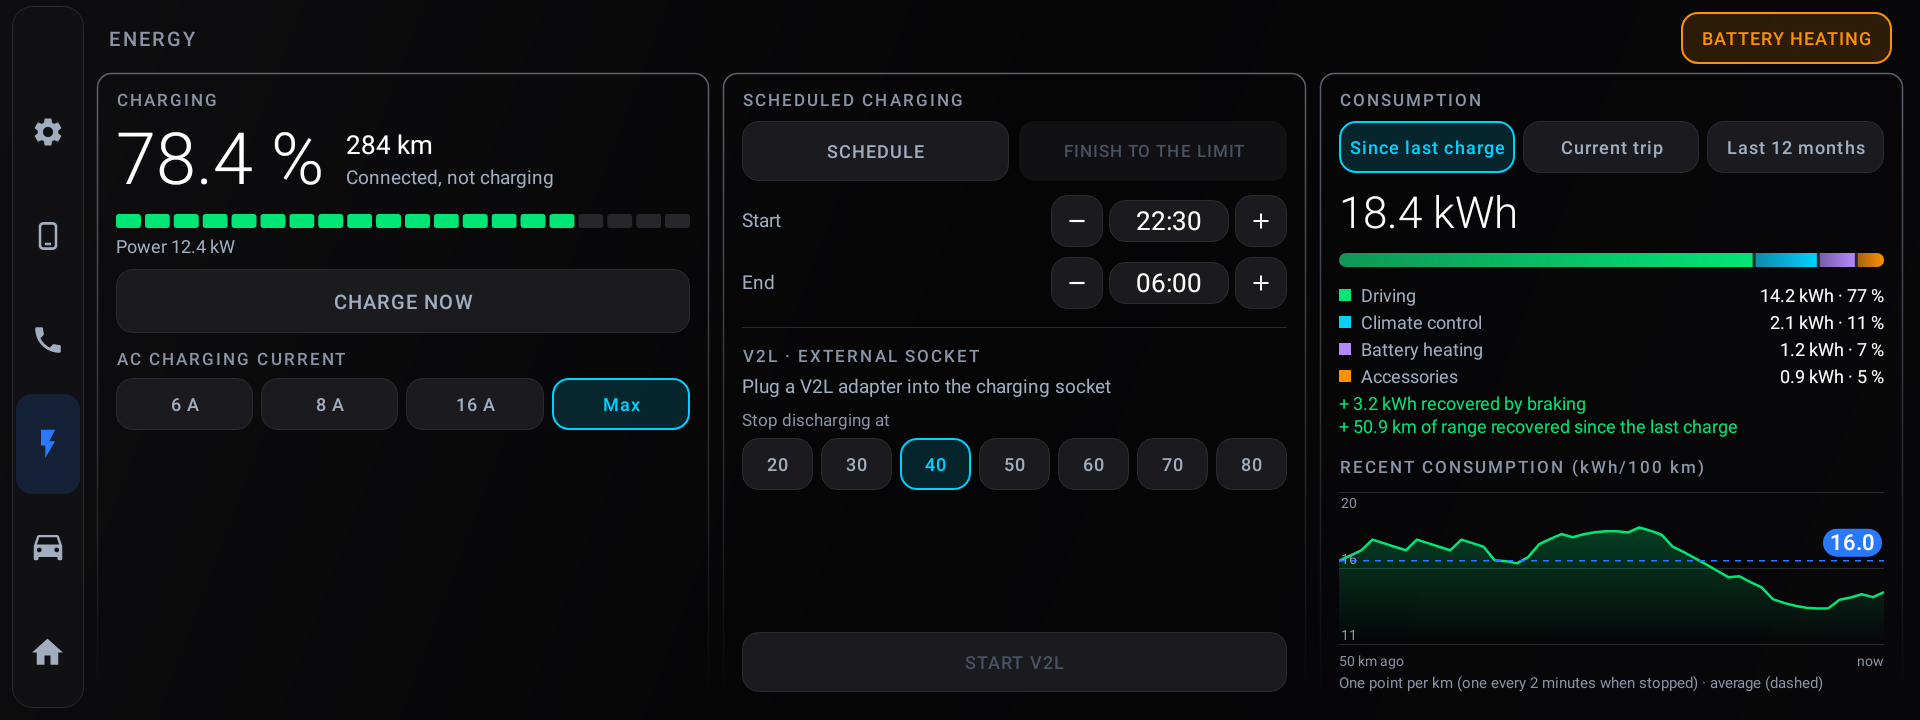
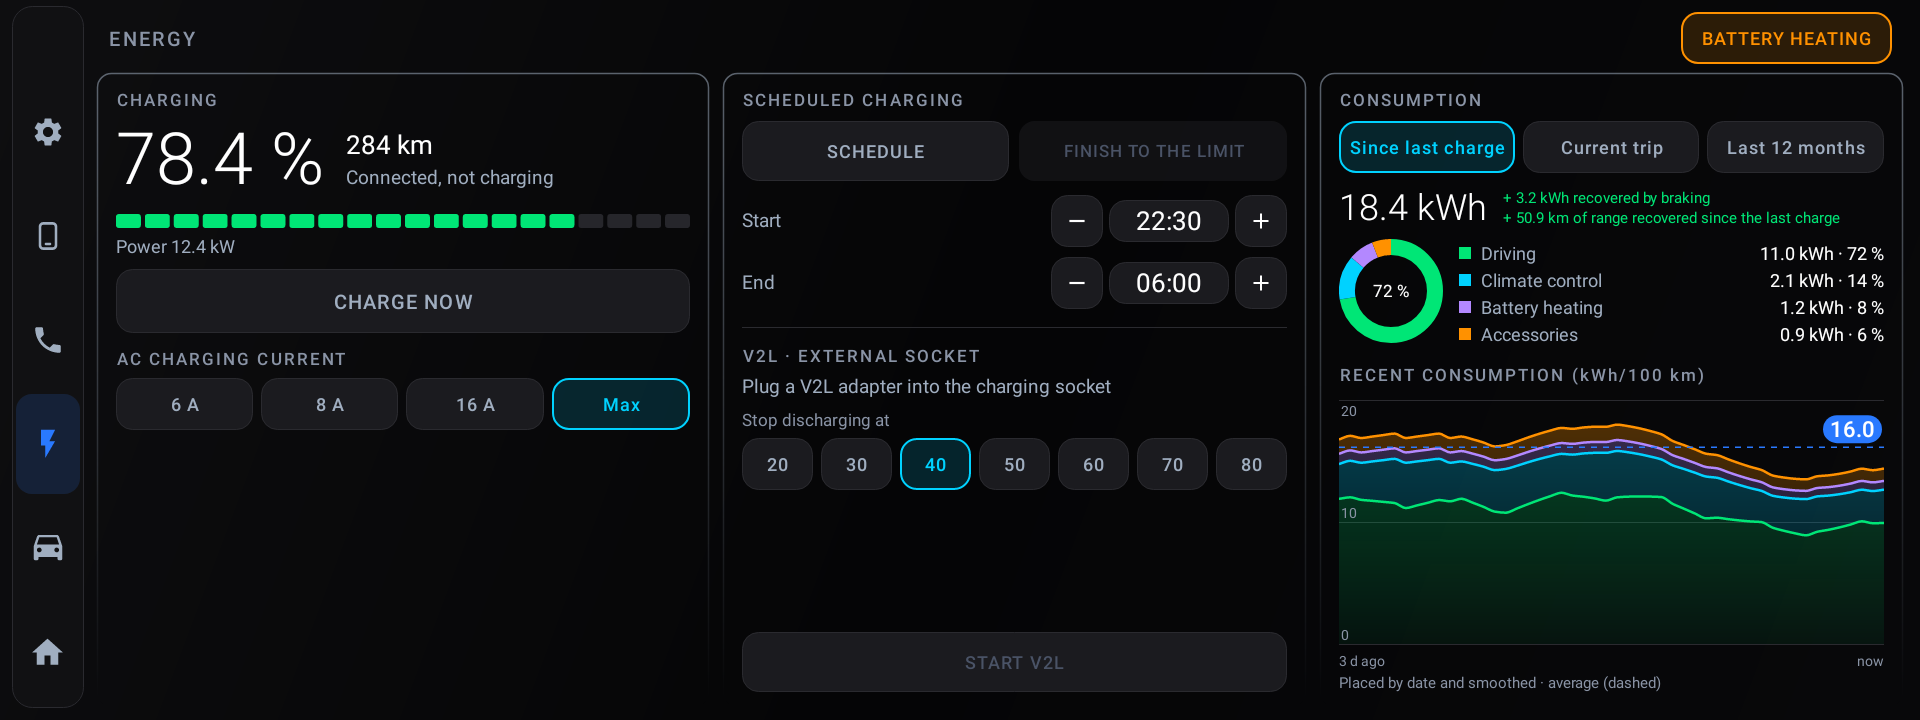
Energy page: ring with each item's share; README and screenshots updated

Changed region(s): [[0.6875, 0.2444, 1.0, 0.8556], [0.6875, 0.9167, 0.9375, 0.9778]]

diff --git a/app/src/main/java/app/mg4dash/pages/EnergyActivity.kt b/app/src/main/java/app/mg4dash/pages/EnergyActivity.kt
@@ -62,6 +62,7 @@ class EnergyActivity : PageActivity() {
     private lateinit var setPeriod: (Int?) -> Unit
     private lateinit var consTotal: TextView
     private lateinit var legend: LinearLayout
+    private lateinit var ring: app.mg4dash.ui.RingChart
     private lateinit var regen: TextView
     private lateinit var regenKm: TextView
     private lateinit var chart: LineChart
@@ -196,8 +197,14 @@ class EnergyActivity : PageActivity() {
         val recovered = kit.column()
         totalRow.addView(recovered, kit.lp(0, -2, 1f, l = 16))
         c3.addView(totalRow, kit.lp(-1, -2, t = 14))
+        // Anneau de répartition à gauche, le détail à droite
+        ring = app.mg4dash.ui.RingChart(this)
         legend = kit.column()
-        c3.addView(legend, kit.lp(-1, -2, t = 8))
+        c3.addView(kit.row().apply {
+            gravity = android.view.Gravity.CENTER_VERTICAL
+            addView(ring, kit.lp(kit.dp(104), kit.dp(104)))
+            addView(legend, kit.lp(0, -2, 1f, l = 16))
+        }, kit.lp(-1, -2, t = 8))
         regen = kit.text("", 15f, R.color.accent_energy).apply { setTextColor(app.mg4dash.ui.Themes.energy(context)) }
         recovered.addView(regen, kit.lp(-1, -2))
         regenKm = kit.text("", 15f, R.color.accent_energy).apply { setTextColor(app.mg4dash.ui.Themes.energy(context)) }
@@ -350,6 +357,8 @@ class EnergyActivity : PageActivity() {
         consTotal.text = if (ok) String.format(Locale.getDefault(), "%.1f kWh", total) else "—"
         val green = kit.color(R.color.accent_energy); val cyan = kit.color(R.color.accent_cold); val orange = kit.color(R.color.accent_heat)
         val violet = kit.color(R.color.accent_battery)
+        ring.show(if (ok) listOfNotNull(drive to green, clim.coerceAtLeast(0f) to cyan, (heat to violet).takeIf { showHeat }, acc.coerceAtLeast(0f) to orange) else emptyList(),
+            if (ok) "${Math.round(drive / shared * 100)} %" else "")
         legend.removeAllViews()
         listOfNotNull(Triple(getString(R.string.en_drive), drive, green), Triple(getString(R.string.en_climate), clim, cyan),
             Triple(getString(R.string.en_battery_heat), heat, violet).takeIf { showHeat },

diff --git a/app/src/main/java/app/mg4dash/ui/Charts.kt b/app/src/main/java/app/mg4dash/ui/Charts.kt
@@ -55,6 +55,42 @@ class StackedBar @JvmOverloads constructor(context: Context, attrs: AttributeSet
     }
 }
 
+/** Anneau de répartition, en commençant en haut ; [center] : texte au milieu. */
+class RingChart @JvmOverloads constructor(context: Context, attrs: AttributeSet? = null) : View(context, attrs) {
+    private var parts: List<Pair<Float, Int>> = emptyList()
+    private var center = ""
+    private val d = resources.displayMetrics.density
+    private val ring = Paint(Paint.ANTI_ALIAS_FLAG).apply { style = Paint.Style.STROKE; strokeWidth = 16f * d; strokeCap = Paint.Cap.BUTT }
+    private val text = Paint(Paint.ANTI_ALIAS_FLAG).apply {
+        color = app.mg4dash.ui.Themes.color(context, R.color.text_value); textSize = 17f * d; textAlign = Paint.Align.CENTER
+    }
+    private val box = RectF()
+
+    fun show(values: List<Pair<Float, Int>>, label: String) {
+        if (values == parts && label == center) return
+        parts = values; center = label; invalidate()
+    }
+
+    override fun onDraw(canvas: Canvas) {
+        val all = parts.sumOf { it.first.toDouble() }.toFloat()
+        val r = minOf(width, height) / 2f - ring.strokeWidth / 2f
+        box.set(width / 2f - r, height / 2f - r, width / 2f + r, height / 2f + r)
+        if (all <= 0f) {
+            ring.color = app.mg4dash.ui.Themes.color(context, R.color.gauge_off)
+            canvas.drawArc(box, 0f, 360f, false, ring)
+            return
+        }
+        var start = -90f
+        parts.forEach { (v, c) ->
+            val sweep = v / all * 360f
+            ring.color = c
+            canvas.drawArc(box, start, sweep, false, ring)
+            start += sweep
+        }
+        canvas.drawText(center, width / 2f, height / 2f - (text.ascent() + text.descent()) / 2f, text)
+    }
+}
+
 /** Courbe de consommation (kWh/100 km) avec aire dégradée et ligne de moyenne. */
 /** Courbe lissée (#44) : chaque point = moyenne de lui-même et de ses 2 voisins de chaque côté. */
 fun List<Float>.smoothed(): List<Float> = indices.map { i -> subList(maxOf(0, i - 2), minOf(size, i + 3)).average().toFloat() }

diff --git a/README.md b/README.md
@@ -15,7 +15,7 @@ Current version: **1.7.1** ([releases](https://github.com/Skittle6938/MG4Dash/re
 
 ## Home screen
 
-![Home screen, default settings](docs/screenshots/home.png?v=24)
+![Home screen, default settings](docs/screenshots/home.png?v=25)
 
 The default home screen (*Full* layout, vertical bar on the left). From left to right:
 
@@ -34,7 +34,7 @@ The default home screen (*Full* layout, vertical bar on the left). From left to 
 
 **Heated seats and steering wheel**: on equipped cars, a row of buttons sits above the temperature (driver seat, steering wheel, passenger seat). Settings › Vehicle › Heated seats and steering wheel: Auto (detected), Yes or No.
 
-![Heated seats and steering wheel](docs/screenshots/home_heated_seats.png?v=24)
+![Heated seats and steering wheel](docs/screenshots/home_heated_seats.png?v=25)
 
 ## Media player
 
@@ -44,7 +44,7 @@ The player (Full, Map and Simple layouts) works like the Android Auto player: th
 
 | Bluetooth | Android Auto |
 |---|---|
-| ![Bluetooth player](docs/screenshots/home_theme_charcoal_orange.png?v=24) | ![Android Auto player](docs/screenshots/home_light.png?v=24) |
+| ![Bluetooth player](docs/screenshots/home_theme_charcoal_orange.png?v=25) | ![Android Auto player](docs/screenshots/home_light.png?v=25) |
 
 **Sources**: the source menu only lists the sources available right now: Bluetooth, USB and Android Auto / CarPlay appear when a phone or a USB key is connected, and other apps playing music (for example [DiAuto MG4+](https://github.com/Skittle6938/DiAuto-MG4) or SimpMusic) are offered too. Switching to an app sends it play, leaving it pauses it, and when an app starts playing the other apps are paused. DAB or FM is chosen in the radio app, as on the stock home screen.
 
@@ -62,7 +62,7 @@ Settings › Home › *Live power in the energy card* replaces the drive mode an
 
 | Live power, plugged in | Live power with voltage and current, driving |
 |---|---|
-| ![Live power in the energy card](docs/screenshots/home_energy_card_power.png?v=24) | ![Live power with voltage and current](docs/screenshots/home_energy_card_power_driving.png?v=24) |
+| ![Live power in the energy card](docs/screenshots/home_energy_card_power.png?v=25) | ![Live power with voltage and current](docs/screenshots/home_energy_card_power_driving.png?v=25) |
 
 ## Bottom-right widget
 
@@ -74,28 +74,28 @@ Swipe or tap it to switch between its pages:
 
 | | |
 |---|---|
-| ![Live power](docs/screenshots/home_widget_power.png?v=24) | ![Phone favourites](docs/screenshots/home_widget_phone.png?v=24) |
+| ![Live power](docs/screenshots/home_widget_power.png?v=25) | ![Phone favourites](docs/screenshots/home_widget_phone.png?v=25) |
 
 ## Map card
 
 - **Map**: follows the car, north up or heading up (tap the recenter button again), default zoom 14 to 18 and colours (auto, light, dark) in Settings › Home. The zoom and full screen buttons hide after a few seconds. Without data connection the map stays as long as the area is in the tile cache, then the card switches to consumption (can be turned off).
-- **Consumption**: the button at the top right switches map → consumption → shortcuts. Period menu: since the last charge, current trip (one point per km, one every 2 minutes when stopped, from the energy measured by MG4Dash) or last 12 months (one point per trip). The dashed line is the average, with its value.
+- **Consumption**: the button at the top right switches map → consumption → shortcuts. Period menu: since the last charge, current trip (one point per km, one every 2 minutes when stopped; since the last charge and the last 12 months are placed by date and smoothed, from the energy measured by MG4Dash) or last 12 months (one point per trip). The dashed line is the average, with its value.
 - **Shortcuts**: 3 rows of apps or Home Assistant actions (scripts, automations, scenes, gate, garage door…). Tap an empty slot or long press a slot to change it; the Home Assistant address and token are set in Settings › Connections. The shortcuts page can be turned off.
 - **Full screen**: the button below the zoom enlarges the map over the whole screen; any bar button brings it back.
 
 | Consumption | Shortcuts |
 |---|---|
-| ![Consumption](docs/screenshots/home_map_layout_consumption.png?v=24) | ![Shortcuts](docs/screenshots/home_map_layout_shortcuts.png?v=24) |
+| ![Consumption](docs/screenshots/home_map_layout_consumption.png?v=25) | ![Shortcuts](docs/screenshots/home_map_layout_shortcuts.png?v=25) |
 
 **Another app in the map card**: long press the map to show another installed app inside the card instead of the map, for example an EV route planner such as ABRP or a navigation app such as Waze. It runs live and can be touched; the card buttons fade out after 5 s and come back on a touch, and the full screen button enlarges the app (it stays full screen through day / night changes until you press Home or the button again). Pick "OpenStreetMap map" in the same list to go back. *The apps below are drawn for the example.*
 
 | | |
 |---|---|
-| ![EV route planner in the map card](docs/screenshots/home_map_app_planner.png?v=24) | ![Navigation app in the map card](docs/screenshots/home_map_app_guidance.png?v=24) |
+| ![EV route planner in the map card](docs/screenshots/home_map_app_planner.png?v=25) | ![Navigation app in the map card](docs/screenshots/home_map_app_guidance.png?v=25) |
 
 **Turn-by-turn**: with [DiAuto MG4+](https://github.com/Skittle6938/DiAuto-MG4) (or another Headunit Revived-based Android Auto app that broadcasts `com.andrerinas.headunitrevived.NAVIGATION_UPDATE`), the next manoeuvre is shown over the map: arrow, distance, street, time and distance left, arrival time. The stock Android Auto app does not receive this information.
 
-![Navigation banner](docs/screenshots/home_map_layout_nav.png?v=24)
+![Navigation banner](docs/screenshots/home_map_layout_nav.png?v=25)
 
 ## Other home layouts
 
@@ -103,10 +103,10 @@ Settings › Home › Home layout: **Full** (default), **Map** or **Simple**. *M
 
 | Map layout | Simple layout |
 |---|---|
-| ![Map layout](docs/screenshots/home_map_layout.png?v=24) | ![Simple layout](docs/screenshots/home_simple.png?v=24) |
+| ![Map layout](docs/screenshots/home_map_layout.png?v=25) | ![Simple layout](docs/screenshots/home_simple.png?v=25) |
 | Weather with date and time, climate, a stack (energy, trip energy, live power, phone; swipe to change, back to the battery when plugged in) above the media, and the map over the whole right column. | Fewer buttons and bigger text: climate, battery and media panels, two shortcuts and today's weather. Tap a panel to open its page. |
 | **Bottom dock** | **Right-hand drive** |
-| ![Bottom dock](docs/screenshots/home_bottom_bar.png?v=24) | ![Vertical bar on the right](docs/screenshots/home_right_hand.png?v=24) |
+| ![Bottom dock](docs/screenshots/home_bottom_bar.png?v=25) | ![Vertical bar on the right](docs/screenshots/home_right_hand.png?v=25) |
 | *Horizontal at the bottom*: dock with clock and date (long press the clock: clock or Wi-Fi settings). | On right-hand drive cars (detected), the vertical bar goes on the right, next to the driver; it can also be forced to either side. |
 
 ## Themes and day / night
@@ -119,12 +119,12 @@ Settings › Look: **Auto** (default, follows the car's lights), **Dark** or **L
 
 | Light mode | Charcoal background, orange buttons |
 |---|---|
-| ![Light mode](docs/screenshots/home_light.png?v=24) | ![Charcoal and orange](docs/screenshots/home_theme_charcoal_orange.png?v=24) |
+| ![Light mode](docs/screenshots/home_light.png?v=25) | ![Charcoal and orange](docs/screenshots/home_theme_charcoal_orange.png?v=25) |
 
 ## Pages
 
 ### Climate
-![Climate](docs/screenshots/climate.png?v=24)
+![Climate](docs/screenshots/climate.png?v=25)
 Temperature, fan speed, combinable air directions, AUTO, A/C, ECO, recirculation and front / rear defrost. On old firmwares (SWI68, SWI133, SWI165), MG4Dash comes back in front when the stock launcher opens its own climate screen (Settings › Vehicle, on by default).
 
 ### Keep climate on
@@ -137,26 +137,26 @@ A camp mode, off by default (Settings › Vehicle › *Keep climate on*), then a
 
 | | | |
 |---|---|---|
-| ![At a set time](docs/screenshots/climhold_menu_at_en.png?v=24) | ![Countdown](docs/screenshots/climhold_countdown_en.png?v=24) | ![Status screen](docs/screenshots/climhold_screen_en.png?v=24) |
+| ![At a set time](docs/screenshots/climhold_menu_at_en.png?v=25) | ![Countdown](docs/screenshots/climhold_countdown_en.png?v=25) | ![Status screen](docs/screenshots/climhold_screen_en.png?v=25) |
 
 ### Energy
-![Energy](docs/screenshots/energy.png?v=24)
-Charging (start / stop, charge limit where the car applies it, AC current, time left, input voltage and current, reason when the car stops charging, cable lock), scheduled charging, V2L (adapter state, stop threshold, start / stop), battery heating while driving, and consumption by period (driving, climate, battery heating, accessories, energy recovered by braking, consumption curve with its time scale).
+![Energy](docs/screenshots/energy.png?v=25)
+Charging (start / stop, charge limit where the car applies it, AC current, time left, input voltage and current, reason when the car stops charging, cable lock), scheduled charging, V2L (adapter state, stop threshold, start / stop), battery heating while driving, and consumption by period: a ring and the share of driving (net of regeneration), climate, battery heating and accessories, energy recovered beside the total, and a stacked curve of these items over time. Points recorded before this version show in grey. In miles, the stacked curve is in kWh/100 mi.
 
 ### Vehicle
-![Vehicle](docs/screenshots/vehicle.png?v=24)
+![Vehicle](docs/screenshots/vehicle.png?v=25)
 Drive mode (with Eco, Snow and Custom where available), regeneration (level 6 is one-pedal driving), driver assistance, tyre pressures and temperatures, vehicle status, a shortcut to MG4 Control, and the **battery health estimate**: while driving, MG4Dash measures the energy taken from the battery and divides it by the drop in battery %; from a 15 % drop (added up over several trips) it gives a dated measurement of the usable capacity, averaged over 30 days and compared with a new battery of your model (51, 64 or 77 kWh). This is an estimate, not an official measurement.
 
 ### Sound
-![Sound](docs/screenshots/sound.png?v=24)
+![Sound](docs/screenshots/sound.png?v=25)
 Vehicle › *Sound*, or a long press on play / pause. Drag the dot on the MG4 seen from above to set the balance and fader (double tap or *Centre* to reset). 5-band equaliser with the car's presets (Classic, Jazz, Pop, Rock, Vocal) or your own curve, *Loudness* and *Flat*. A live spectrum of what is playing is shown behind the sliders for Bluetooth, USB and apps; the radio's sound does not go through Android, so the spectrum stays flat on the radio. These are the car's own settings, the same as the stock sound menu. On SWI68 and the other old firmwares the page uses the car's own sound service: written from the firmware, tests welcome.
 
 ### Phone
-![Phone](docs/screenshots/phone.png?v=24)
+![Phone](docs/screenshots/phone.png?v=25)
 Recent calls, contacts with search and a keypad, from the phone connected over Bluetooth. Calls go through the hands-free account, like the stock phone app, whose in-call screen is kept.
 
 ### Startup
-![Startup animation](docs/screenshots/splash.png?v=24)
+![Startup animation](docs/screenshots/splash.png?v=25)
 While the head unit starts, a short MG4Dash animation replaces Android's "Phone is starting" screen; the home screen opens as soon as the system is ready.
 
 ## Settings
@@ -165,9 +165,9 @@ Five tabs along the top; the last one used opens next time. Each on / off option
 
 | Home | Look |
 |---|---|
-| ![Settings, Home](docs/screenshots/settings_en_tab0.png?v=24) | ![Settings, Look](docs/screenshots/settings_en_tab1.png?v=24) |
+| ![Settings, Home](docs/screenshots/settings_en_tab0.png?v=25) | ![Settings, Look](docs/screenshots/settings_en_tab1.png?v=25) |
 | **Vehicle** | **System** |
-| ![Settings, Vehicle](docs/screenshots/settings_en_tab2.png?v=24) | ![Settings, System](docs/screenshots/settings_en_tab4.png?v=24) |
+| ![Settings, Vehicle](docs/screenshots/settings_en_tab2.png?v=25) | ![Settings, System](docs/screenshots/settings_en_tab4.png?v=25) |
 
 | Tab | Options |
 |---|---|
@@ -262,7 +262,7 @@ The SAIC launcher package (`com.saicmotor.launcher`) is never disabled: its serv
 
 ## Home screen: replace and go back
 
-![Settings › System › Home screen](docs/screenshots/settings_system.png?v=24)
+![Settings › System › Home screen](docs/screenshots/settings_system.png?v=25)
 
 1. Tap the **gear** (Settings) in the side bar, then the **System** tab.
 2. Under **HOME SCREEN**, tap **Replace SAIC home** and confirm. MG4Dash now opens at startup and with the car's Home button.
